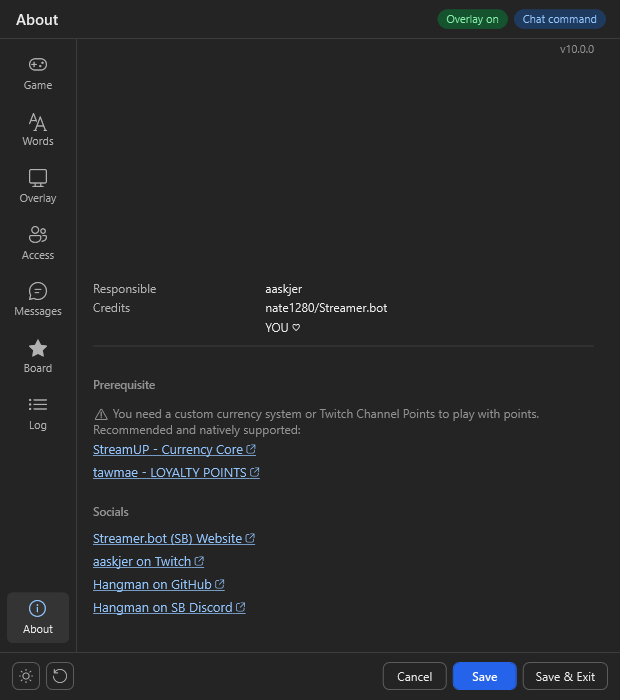
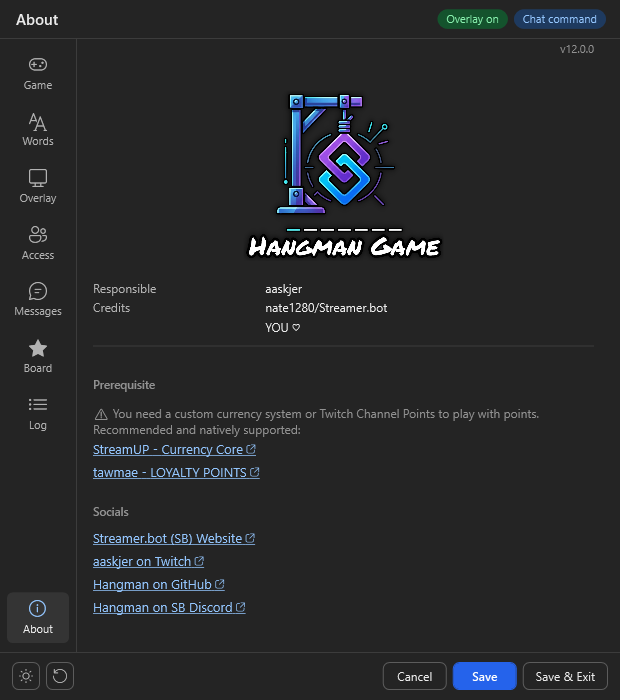
Document the v12 features and refresh the screenshots
README, Setup Guide and FAQ cover the word importer, blitz rounds, Evil
Hangman, streaks, the overlay refresh and the moderator-stopped banner,
and credit the four import sources. The FAQ's command table now lists
the commands the import actually ships (!killhm, !hmr, !hmp, !hms,
!hml, !hma) instead of names that never existed, and the scoreboard
answer describes how the board is really built.

Six of the eight window renders changed: Game, Words, Overlay, Access,
Board and About, which now shows the logo and v12.0.0.

Changed region(s): [[0.3984, 0.12, 0.7355, 0.39]]

diff --git a/FAQ.md b/FAQ.md
@@ -11,6 +11,7 @@ Under your Streamer.bot base directory:
 Chat Games/Hangman Game/configs.json            ← settings and every chat message
 Chat Games/Hangman Game/Hangman-Wordlist.json   ← word pool
 Chat Games/Logs/HM-log-YYYY-MM-DD.txt           ← action log, one file per day
+Chat Games/Hangman Game/Import Cache/           ← OdeNet download for the word importer
 ```
 Older installs also have a `messages.json` next to `configs.json`. Its contents were folded into `configs.json`, and the file is deleted the next time you save. Editing any of this by hand is never necessary — the settings window writes all of it.
 
@@ -67,7 +68,7 @@ Older setups that used the removed Bet Mode dropdown are migrated on first load:
 
 **Q: A round is stuck as active after Streamer.bot restarted. How do I clear it?**
 
-It already is clear — the round lives in memory only, so a restart ends it. Just start a new one. During a session, `!hmstop` ends a round.
+It already is clear — the round lives in memory only, so a restart ends it. Just start a new one. During a session, `!killhm` ends a round.
 
 ---
 
@@ -77,14 +78,18 @@ It already is clear — the round lives in memory only, so a restart ends it. Ju
 
 | Command | Who | What it does |
 |---------|-----|--------------|
-| `!hm` | Mod / Broadcaster | Start a new round |
-| `!hmstop` | Mod / Broadcaster | Stop the current round |
-| `!g <letter or word>` | Everyone | Guess a letter or the full word |
-| `!hmrepeat` | Everyone | Repeat the current word state |
-| `!addicted add <user>` | Mod / Broadcaster | Add a user to the addicted list |
-| `!addicted remove <user>` | Mod / Broadcaster | Remove a user from the addicted list |
+| `!hm` / `!hangman` | Mod / Broadcaster | Start a new round |
+| `!hm blitz` | Mod / Broadcaster | Start a [blitz round](#-blitz-rounds) |
+| `!killhm` / `!killhangman` | Mod / Broadcaster | Stop the current round |
+| `!g` / `!guess` `<letter or word>` | Everyone | Guess a letter or the full word |
+| `!hmr` / `!hangmanrepeat` | Everyone | Repeat the current word state |
+| `!hmp` / `!hangmanpersonal` | Everyone | Your own stats, with your streak |
+| `!hml` / `!hmlookup` `<user>` | Everyone | Someone else's stats |
+| `!hms` / `!hangmanscoreboard` | Everyone | The scoreboard for this platform |
+| `!hma` / `!hangmanaddict` `add <user>` | Mod / Broadcaster | Add a user to the addicted list |
+| `!hma` / `!hangmanaddict` `remove <user>` | Mod / Broadcaster | Remove a user from the addicted list |
 
-Command names depend on what you configured in Streamer.bot — the above are the defaults.
+These are the commands as they come in the import. You can rename them in Streamer.bot's `Commands` tab.
 
 **Q: How does guessing a full word work? Does it cost lives?**
 
@@ -115,18 +120,20 @@ For a custom currency under a different variable name, set **Points Variable** a
 In three steps:
 
 ```
-base   = RewardWinPoints × (1 + wordBonus%)
+base   = RewardWinPoints × (1 + wordBonus%) × blitz × (1 + streakBonus%)
 stake  = redeemed stake × ChannelPointPayoutMultiplier
 paid   = (base + stake) × roleMultiplier
 ```
 
 `wordBonus%` is `DifficultyBonusPercent` per difficulty level above 1, plus `LengthBonusPercent` per letter beyond `LengthBonusFromLetters`, capped at `MaxWordBonusPercent` — set that cap to `0` to lift it. Turning off **Scale Win By Word** drops the bonus to zero, so every word pays the base.
 
+`blitz` is the **Blitz Payout Multiplier** in a [blitz round](#-blitz-rounds) and 1 otherwise. `streakBonus%` comes from the winner's [streak](#-streaks) and is 0 while streaks are off.
+
 `roleMultiplier` starts at 1.0 and takes the subscriber boost, the VIP boost and the addicted penalty.
 
 **Q: What does "Reward Per Letter" do?**
 
-Every revealed letter pays **Points Per Letter** on the spot, on top of the win reward that lands when the round ends.
+Every revealed letter pays **Points Per Letter** on the spot, on top of the win reward that lands when the round ends. In a blitz round it is multiplied too.
 
 ---
 
@@ -146,7 +153,7 @@ For the regulars who play every round. They keep playing, with two strings attac
 - **Points penalty** — their win multiplier drops by `AddictedPointsPenaltyPercent`, so 50 means they earn half.
 - **Guess interval** — they wait `AddictedGuessIntervalSeconds` between their own guesses.
 
-Manage the list with `!addicted add/remove <user>` (mods only) or edit **Addicted Users** on the **Access** page.
+Manage the list with `!hma add/remove <user>` (mods only) or edit **Addicted Users** on the **Access** page.
 
 ---
 
@@ -165,6 +172,38 @@ The hint fires once per wrong guess check, not repeatedly. Keep `HintAfterWrongG
 **Q: How do I set hints per word?**
 
 Fill the **Hint** column on the **Words** page. A word without a hint never triggers the hint message, even with hints switched on.
+
+---
+
+## ⚡ Blitz Rounds
+
+**Q: What is a blitz round?**
+
+A short, sharp round. It runs on **Blitz Duration** and **Blitz Lives** instead of the normal round settings, and every point it pays — the letter rewards and the win — is multiplied by **Blitz Payout Multiplier**. The channel point stake is not multiplied. The overlay shows a pulsing ⚡ BLITZ badge while it runs.
+
+**Q: How does a round become a blitz?**
+
+Turn on **Enable Blitz** under **Game → Blitz Round**. Every round started from then on, by chat command or channel points, has **Blitz Chance** percent to be a blitz, and moderators can call one with `!hm blitz` while **Allow '!hangman blitz'** is on. Set the chance to `0` to have blitz rounds only on command.
+
+---
+
+## 👾 Evil Hangman
+
+**Q: What does Evil Hangman do?**
+
+Once chat has used up **Glitch At** percent of the round's lives — 50 with 6 lives fires on the 3rd wrong guess — the overlay glitches and the word is swapped for another. Every guess is wiped except one randomly picked letter that was already revealed, and the new word always contains it. It happens at most once per round, and **Evil Chance** decides how many rounds are evil at all.
+
+**Q: Do lives refill after the swap?**
+
+Your choice. **Refill Lives On Swap** gives the new word full lives; with it off, lives already lost stay lost.
+
+**Q: Which word does it swap to?**
+
+One from the same category when **Prefer Same Category** is on and a word fits, otherwise from any category in play — always within your difficulty range and always containing the surviving letter. If no other word contains that letter, nothing survives.
+
+**Q: Why is chat quiet while the overlay glitches?**
+
+The swap message waits until the glitch has played out on the overlay (**Glitch Duration** plus half a second), and guesses, `!hmr` and the "already running" reply are ignored until then — any reply would show the new word before the overlay does. If the round ends during the glitch, the message is dropped. With the duration at `0`, or the overlay switched off, the swap is announced at once.
 
 ---
 
@@ -203,11 +242,44 @@ No. Every round start checks `Hangman-Wordlist.json`. Missing or empty, and the 
 
 ---
 
+## 📥 Importing Words
+
+**Q: Where can the importer get words from?**
+
+*Import* on the **Words** page fetches from four free sources:
+
+| Source | What | Language | License |
+|--------|------|----------|---------|
+| [Wikidata](https://www.wikidata.org) | Countries, capitals, big cities, rivers, mountains, chemical elements, musical instruments, sports, dog breeds — or any Wikidata class by its Q-ID | German, English | CC0 |
+| [OdeNet](https://github.com/hdaSprachtechnologie/odenet) | German nouns by topic — animals, plants, food, objects, people & jobs, body, places, materials, nature, feelings — with their meaning as the hint | German | CC BY-SA 4.0 |
+| [PokéAPI](https://pokeapi.co) | Pokémon by generation, with their category as the hint | German, English | — |
+| [IGDB](https://www.igdb.com) | Video games, best-rated first, with year and genre as the hint | English titles | IGDB terms |
+
+You see the list before anything is added: untick what you don't want, fix a hint in the table, and the rest lands in the category you named. Nothing is kept until you click Save.
+
+**Q: What does the importer leave out?**
+
+Answers with digits or symbols, more letters than **Max. Letters** or more words than **Max. Words Per Answer**, and words already in your list. Accents are folded (é → e). Umlauts stay letters to guess, unless **Write umlauts out** turns them into ae, oe, ue and ss. A hint that names its own answer is swapped for another one or masked with `___`.
+
+**Q: How is the difficulty picked?**
+
+*Auto* rates every word from its length, rare letters (j, q, x, y, z) and how well known it is — the rank in the result for Wikidata and IGDB, the generation for Pokémon. Or pick one fixed difficulty for the whole import.
+
+**Q: What does IGDB need?**
+
+The Client ID and Client Secret of a free Twitch developer app. Create one at [dev.twitch.tv/console/apps](https://dev.twitch.tv/console/apps) with any name, `http://localhost` as the redirect URL and *Confidential* as the client type. Both values are kept in Streamer.bot's global variables (`hm_IgdbClientId`, `hm_IgdbClientSecret`), never in `configs.json`.
+
+**Q: Some OdeNet hints don't match the word.**
+
+OdeNet groups synonyms, and a few groups mix two meanings. The importer picks the word whose meanings fit the topic best, but read the list before you add it. The OdeNet file (about 29 MB) is downloaded once and kept in `Chat Games/Hangman Game/Import Cache` for a month.
+
+---
+
 ## 🏆 Scoreboard
 
 **Q: How is the leaderboard built?**
 
-It is updated whenever a user calls `!hmstats`, not automatically on a win or a loss. A player who never checks their stats never appears on it.
+From the players' stats, read fresh every time someone asks with `!hms`. Everyone who has won at least one round on that platform is on it, ranked by wins and then by points.
 
 **Q: How do I exclude the broadcaster or bot from the scoreboard?**
 
@@ -216,6 +288,22 @@ On the **Board** page, turn off **Include Broadcaster** or **Include Bot**. **Bl
 **Q: How does the monthly auto-reset work?**
 
 Turn on **Reset All (Monthly)** or the per-platform toggles. On the first scoreboard command of a new month, or on and after the configured reset day, that platform's stats are zeroed and the board cleared. A chat message goes out and the date is stored, so it runs once.
+
+---
+
+## 🔥 Streaks
+
+**Q: How do streaks work?**
+
+Turn on **Track Streaks** on the **Board** page. Every word a player solves adds one to their streak. It only breaks when a round they guessed in is lost — game over or time up. A round a moderator stops breaks nothing.
+
+**Q: Do streaks pay?**
+
+**Streak Bonus** adds a percentage to the win for every win in a row after the first — 10 means the third win in a row pays +20 % — up to **Max. Streak Bonus**. Streaks from **Announce From** on are cheered after a win and called out when they end.
+
+**Q: Where do players see their streak?**
+
+`!hmp` adds a line with the current and the best streak. `{streak}` and `{beststreak}` also work in the board and stats messages. The monthly reset clears streaks along with the rest of the stats.
 
 ---
 
@@ -240,6 +328,21 @@ A local HTML file that OBS loads as a browser source and that repaints itself wh
 **Q: How do I get it into OBS?**
 
 *Setup Overlay in OBS* on the **Overlay** page creates the scene and the browser source over the Streamer.bot OBS connection you already have. By hand works too: the folder button opens the directory, and `hangman_overlay.html` is a plain local file.
+
+**Q: What does the overlay show when a round ends?**
+
+| Ending | Banner |
+|--------|--------|
+| Solved | `SOLVED - <word>` in green |
+| Last life gone | `GAME OVER - <word>` in red |
+| Time up | `TIME UP - <word>` in red |
+| `!killhm` | `GAME OVER - MODERATOR STOPPED` in orange |
+
+The answer is spelled out above the banner either way.
+
+**Q: After an update the overlay looks the same. Why?**
+
+OBS keeps running the page it loaded, even when the file on disk is replaced. The game therefore refreshes every browser source that shows `hangman_overlay.html` by itself — after an update and once per Streamer.bot session — over the OBS connection set on the **Overlay** page. If OBS is not connected through Streamer.bot, press **Refresh Overlay in OBS**, or right-click the browser source in OBS and choose *Refresh*. From then on the page also reloads itself whenever a newer version lands on disk.
 
 **Q: Does the overlay give the hint away?**
 

diff --git a/README.md b/README.md
@@ -28,8 +28,12 @@ A round starts, a word is drawn, and chat guesses with `!g <letter>` or `!g <wor
 | 💡 **Hint** | Enough wrong guesses, not too much revealed | The word's hint goes to chat. |
 | 💀 **Game Over** | The last life is gone | The word is revealed and the round ends. |
 | ⏰ **Timeout** | The round duration runs out | The word is revealed and the round ends. |
+| 🛑 **Stopped** | A moderator types `!killhm` | The word is revealed and the round ends. |
+| ⚡ **Blitz** | By chance, or a moderator types `!hm blitz` | A short round: less time, fewer lives, every point multiplied. |
+| 👾 **Glitch** | Evil Hangman — chat has burned through part of its lives | The overlay glitches and the word is swapped. One revealed letter survives. |
+| 🔥 **Streak** | A player solves again before losing a round | The streak grows, can pay a bonus, and shows in `!hmp`. |
 
-Out of the box only moderators and the broadcaster can start a round. Turn off *Require Mod To Start* to let everyone.
+Out of the box only moderators and the broadcaster can start a round. Turn off *Require Mod To Start* to let everyone. Blitz, Evil Hangman and streaks are optional and stay off until you switch them on.
 
 ---
 
@@ -39,6 +43,10 @@ A local HTML file that OBS loads as a browser source and that repaints itself as
 
 Colours, scale and background opacity are yours; it starts out transparent, so it drops onto any scene. One button creates the scene and the browser source in OBS for you.
 
+A blitz round wears a pulsing badge. Evil Hangman's word swap plays as a glitch: the old word breaks up, the panel scrambles under scanlines, the new word decodes and the surviving letter lights up — and chat only hears about it once the glitch is over, so nobody gets spoiled. A round a moderator ends shows *GAME OVER - MODERATOR STOPPED*.
+
+After an update the game refreshes the browser source in OBS by itself, so the new overlay shows up without you touching OBS.
+
 ---
 
 ## ⚙ What You Can Change
@@ -47,7 +55,9 @@ Colours, scale and background opacity are yours; it starts out transparent, so i
 
 **The payout** — a base reward for solving the word, optionally points per revealed letter. Harder and longer words earn a percentage on top, capped so a twenty-letter answer cannot run away with your currency. Subscribers and VIPs can earn a boost.
 
-**The words** — `Hangman-Wordlist.json`, edited in the window: word, hint, category and difficulty, with multi-select and filters.
+**The words** — `Hangman-Wordlist.json`, edited in the window: word, hint, category and difficulty, with multi-select and filters. An importer fills it from free sources, hints and difficulty included: countries, capitals, rivers and more from Wikidata, German nouns with their meaning from OdeNet, Pokémon from PokéAPI, video games from IGDB.
+
+**The twists** — blitz rounds with a payout multiplier, Evil Hangman's mid-round word swap, and win streaks with an optional bonus.
 
 **The chat** — every line the game posts, in one place, with a preview of how it will read and chips for the placeholders each message accepts.
 
@@ -97,5 +107,7 @@ Streamer.bot cannot pay channel points back out, so a win is paid in your custom
 [Hangman Game on SB Discord](https://discord.com/channels/834650675224248362/1448251872744837203/1448251872744837203)
 
 [Streamer.bot](https://streamer.bot) / [nate1280](https://www.patreon.com/c/nate1280/home)
+
+Word import: [Wikidata](https://www.wikidata.org) (CC0) · [OdeNet](https://github.com/hdaSprachtechnologie/odenet) (CC BY-SA 4.0) · [PokéAPI](https://pokeapi.co) · [IGDB](https://www.igdb.com)
 
 YOU ♡

diff --git a/Setup-Guide.md b/Setup-Guide.md
@@ -24,15 +24,21 @@ The window has one page per subject, picked from the rail on the left. Every fie
 
 Lives, round duration and the time reminder, then when hints appear and what a win pays. Word scaling sits here too: harder and longer words earn a percentage on top, capped so a very long word cannot run away with your currency.
 
+Between the hints and the payout sit the two optional twists. [Blitz](https://github.com/aaskjer/Hangman-Game/blob/main/FAQ.md#-blitz-rounds) sets how often a round turns into a short, multiplied one and whether mods may call one with `!hm blitz`. [Evil Hangman](https://github.com/aaskjer/Hangman-Game/blob/main/FAQ.md#-evil-hangman) sets when the word is swapped, whether lives refill, and how long the overlay glitches.
+
 ## Words
 <p align="center"><img alt="Words page" src="https://github.com/aaskjer/Hangman-Game/blob/main/Assets/screenshots/words.png?raw=true"></p>
 
 Add, edit and delete [words](https://github.com/aaskjer/Hangman-Game/blob/main/FAQ.md#-wordlist), each with a [hint](https://github.com/aaskjer/Hangman-Game/blob/main/FAQ.md#-hints), a category and a difficulty. Ctrl+click picks single rows, Shift+click a range, Del removes the selection. The difficulty range and the categories in play are folded away above the table.
 
+*Import* [fetches words](https://github.com/aaskjer/Hangman-Game/blob/main/FAQ.md#-importing-words) with hints from Wikidata, OdeNet, PokéAPI or IGDB. Pick a source and a topic, fetch, untick what you don't want, and the rest lands in the category you named. Nothing is kept until you click Save.
+
 ## Overlay
 <p align="center"><img alt="Overlay page" src="https://github.com/aaskjer/Hangman-Game/blob/main/Assets/screenshots/overlay.png?raw=true"></p>
 
 A local HTML file that OBS loads as a browser source and that repaints itself as the round runs. *Setup Overlay in OBS* creates the scene and the source over your existing Streamer.bot OBS connection. The gallows, the colours, the scale and what is shown next to the word are all set here.
+
+OBS keeps showing the overlay it loaded until the browser source is refreshed. The game does that by itself after an update; *Refresh Overlay in OBS* does it on demand.
 
 ## Access
 <p align="center"><img alt="Access page" src="https://github.com/aaskjer/Hangman-Game/blob/main/Assets/screenshots/access.png?raw=true"></p>
@@ -50,6 +56,8 @@ Every line the game posts, in one place. Pick a message from the list, edit it, 
 <p align="center"><img alt="Board page" src="https://github.com/aaskjer/Hangman-Game/blob/main/Assets/screenshots/board.png?raw=true"></p>
 
 How many players the scoreboard shows, who is left off it, and when it resets. Reset runs per platform or for all of them at once.
+
+[Streaks](https://github.com/aaskjer/Hangman-Game/blob/main/FAQ.md#-streaks) are switched on here: from which length they are announced, and the bonus a streak adds to a win.
 
 ## Log
 <p align="center"><img alt="Log page" src="https://github.com/aaskjer/Hangman-Game/blob/main/Assets/screenshots/log.png?raw=true"></p>
